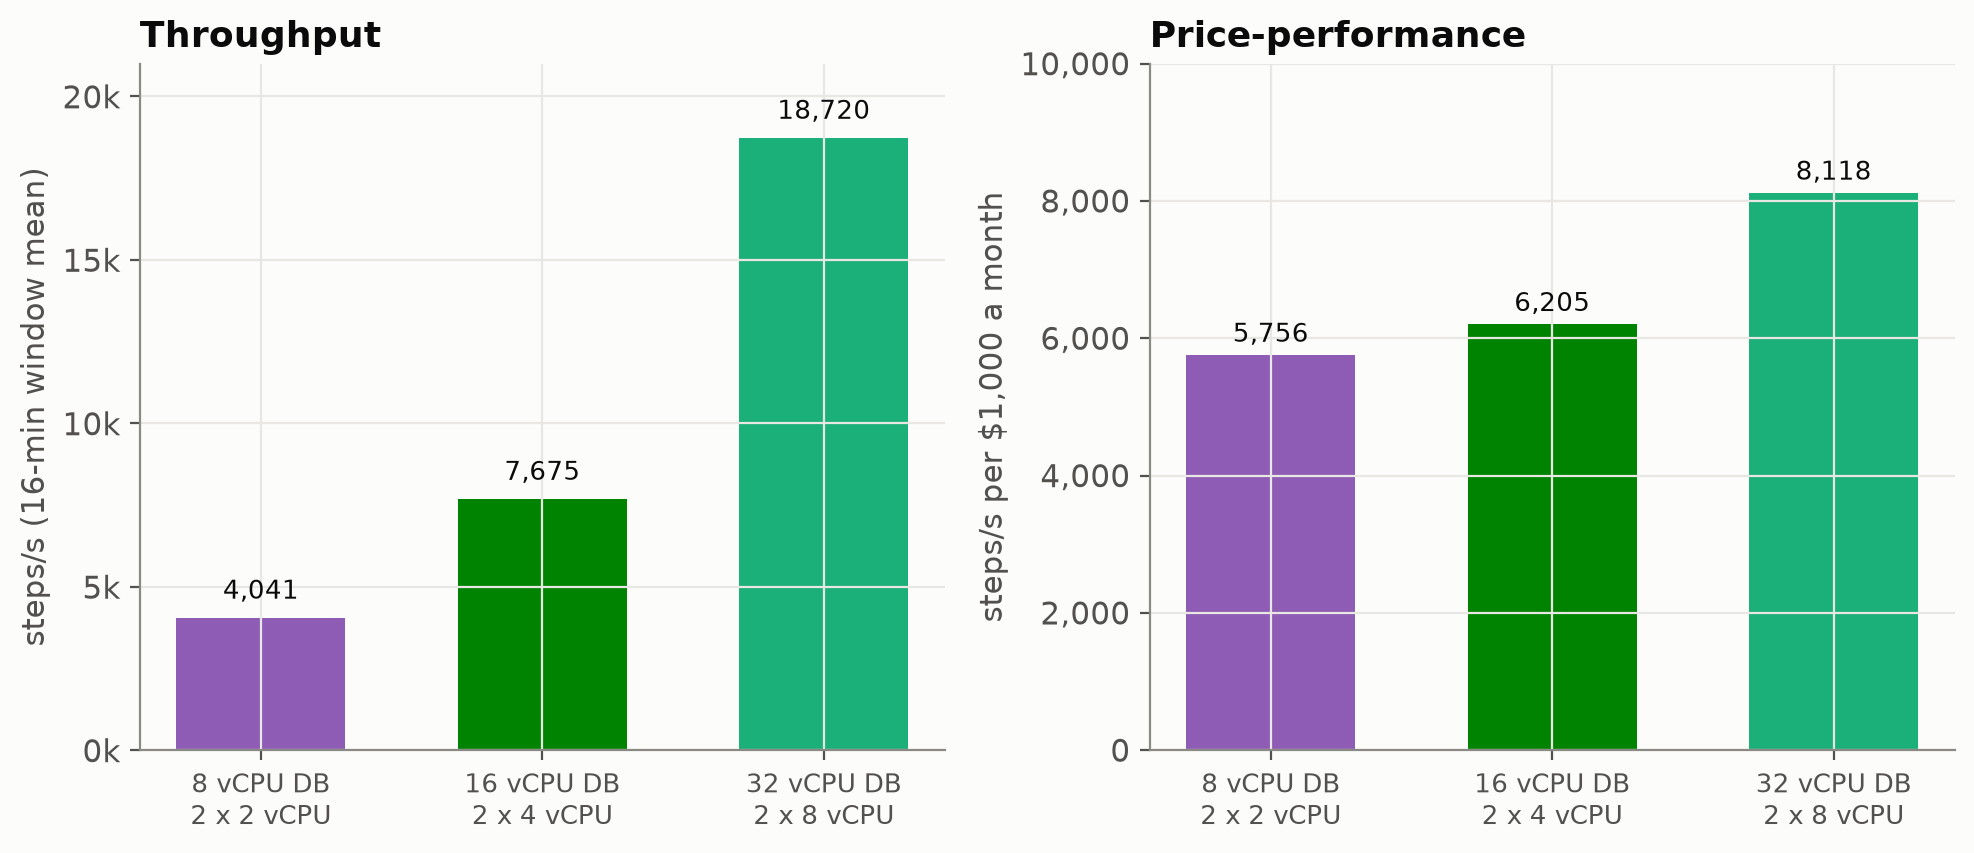
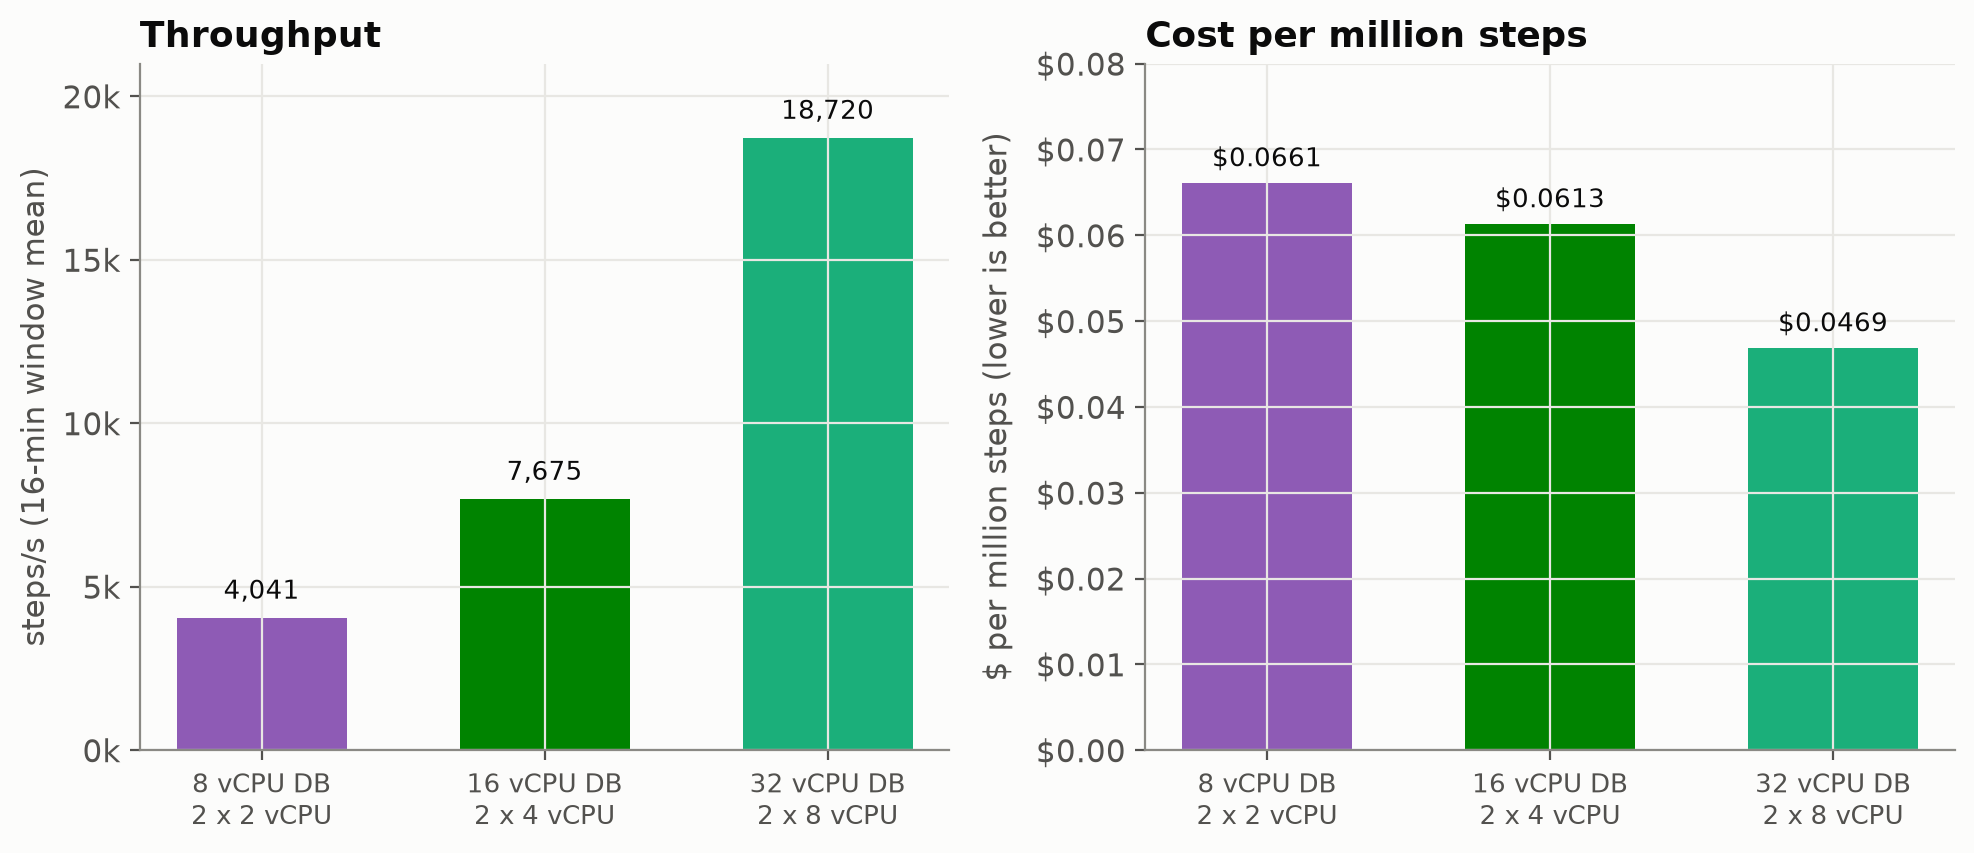
docs: b2 cloud benchmarks show one engine on four shards at 58,719 and cost per million steps

diff --git a/docs/b2-benchmark-cloud.md b/docs/b2-benchmark-cloud.md
@@ -1,7 +1,7 @@
 # Cloud benchmarks
 
 > **Draft.** This page replaces [the current cloud benchmarks](benchmark-cloud.md) once its remaining runs
-> are in. Measured so far, on one engine build: database sizes from 8 to 32 vCPU with their engine pairings,
+> are in. Measured so far: database sizes from 8 to 32 vCPU with their engine pairings,
 > shards, replicas, one engine for several shards, the recommended shape, and engine host sizes. Still to
 > run: workload shape and payload size, long tasks, database volume, and failover. Each pending section
 > says so.
@@ -18,12 +18,12 @@
 - **Replicas add availability, not cost.** One, two or four replicas on a shard deliver the same
   throughput within 6%. Each shard is served by two of them, and any others stand by to take over.
 - **Pair each database with two engines at half its vCPU.** 8 vCPU with 2 × 2 vCPU engines runs ~4,000
-  steps/s, 16 vCPU with 2 × 4 runs ~7,700, 32 vCPU with 2 × 8 runs ~18,700. The 32 vCPU pairing gives the
-  most throughput per dollar.
+  steps/s, 16 vCPU with 2 × 4 runs ~7,700, 32 vCPU with 2 × 8 runs ~18,700. The 32 vCPU pairing costs
+  the least per step: about $0.05 per million steps at full load.
 - **The engine is cheap.** A shard's work takes about 5.5 engine cores. Two 8 vCPU engine hosts per
   32 vCPU database serve it at about a third of their CPU each, and either can carry it alone.
 - **Prefer more, smaller engine hosts.** One engine serves up to two shards at full speed; past that, add
-  replicas. On a 48 vCPU host the engine spends about 40% more CPU per step than on 8 or 16 vCPU hosts.
+  replicas. On a 48 vCPU host the engine spends up to 40% more CPU per step than on 8 or 16 vCPU hosts.
 
 ## How these numbers were measured
 
@@ -59,19 +59,20 @@ flows/s, about 1.5 billion steps a day. A second instance, already used for four
 
 Each database size paired with two engine replicas at half its vCPU, one shard, saturated:
 
-| Database | Engines | steps/s | Engine CPU per replica | Monthly cost | steps/s per $1,000 a month |
-|---|---|---|---|---|---|
-| 8 vCPU, 32 GB | 2 × 2 vCPU | 4,041 | 0.7 of 2 cores | ~$700 | ~5,800 |
-| 16 vCPU, 64 GB | 2 × 4 vCPU | 7,675 | 1.3 of 4 cores | ~$1,240 | ~6,200 |
-| 32 vCPU, 128 GB | 2 × 8 vCPU | 18,720 | 2.3–3.0 of 8 cores | ~$2,310 | ~8,100 |
+| Database | Engines | steps/s | Engine CPU per replica | Monthly cost | Steps a month | $ per million steps |
+|---|---|---|---|---|---|---|
+| 8 vCPU, 32 GB | 2 × 2 vCPU | 4,041 | 0.7 of 2 cores | ~$700 | 10.6 billion | $0.0661 |
+| 16 vCPU, 64 GB | 2 × 4 vCPU | 7,675 | 1.3 of 4 cores | ~$1,240 | 20.2 billion | $0.0613 |
+| 32 vCPU, 128 GB | 2 × 8 vCPU | 18,720 | 2.3–3.0 of 8 cores | ~$2,310 | 49.2 billion | **$0.0469** |
 
 The 32 vCPU row is the per-shard rate of the four-shard, eight-replica run below. Monthly cost is the
 on-demand list price in one US region: the database (without high availability), its 1 TB SSD, and both
 engine hosts. Every database ran on a 1 TB disk so storage IOPS would not limit it; a smaller disk costs less
-and can bind first.
+and can bind first. The cost per million steps assumes the deployment runs at its measured rate around the
+clock (730 hours a month); one that averages half that rate pays twice as much per step.
 
 - **Throughput roughly doubles with each doubling of the database**, and more than doubles from 16 to 32
-  vCPU, which makes 32 vCPU the best throughput per dollar of the three.
+  vCPU, which makes 32 vCPU the lowest cost per step of the three.
 - **The pairing holds at every size.** Each engine runs at about a third of its CPU, so either replica can
   carry its shard alone if the other fails.
 - **The engine's connection budget is the same at every size.** Cloud SQL sets `max_connections` to 600, 800
@@ -106,13 +107,14 @@ The same shard counts, served by a single replica:
 |---|---|---|---|---|
 | 2 | 16 vCPU | 32,564 | 10.3 of 16 cores | saturated |
 | 2 | 48 vCPU | 34,049 | 14.8 of 48 cores | saturated |
-| 4 | 48 vCPU | **52,079 (×2.90)** | 25.7 of 48 cores | about half loaded |
+| 4 | 48 vCPU | **58,719 (×3.27)** | 20.1 of 48 cores | below saturation |
 
 - **One engine serves two shards at full speed**, even on a 16 vCPU host, with a third of its CPU to
   spare.
-- **At four shards one engine is the limit.** It delivered 52,079 steps/s while the databases ran at
-  about half their saturated load and the host had half its CPU free. Four replicas on the same four
-  shards ran 69,382. Beyond two shards per replica, add replicas rather than a bigger host.
+- **At four shards one engine is the limit.** It delivered 58,719 steps/s while the databases ran below
+  saturation and the host had more than half its CPU free. It started near 67,000 and settled about 17%
+  lower over the window. Four replicas on the same four shards ran 69,382, and eight ran 74,879. Beyond
+  two shards per replica, add replicas rather than a bigger host.
 
 ## Replicas: availability without a throughput cost
 
@@ -166,7 +168,7 @@ The same rule scales down: two engines at half the database's vCPU (see
 | 4 vCPU | 2 replicas on a 16 vCPU database | 2,950–3,000 | 10–11% |
 | 8 vCPU | 8 replicas on 4 shards | 3,250–3,600 | 11–15% |
 | 16 vCPU | 1 or 2 shards per replica | 3,150–3,300 | 11–12% |
-| 48 vCPU | 1 replica on 2 and 4 shards | 2,000–2,300 | 19–20% |
+| 48 vCPU | 1 replica on 2 and 4 shards | 2,300–2,950 | 20–22% |
 
 - **The database is the limit at the sizes we recommend.** An engine host from 2 to 16 vCPU runs at about a
   third of its CPU while its database is saturated.
